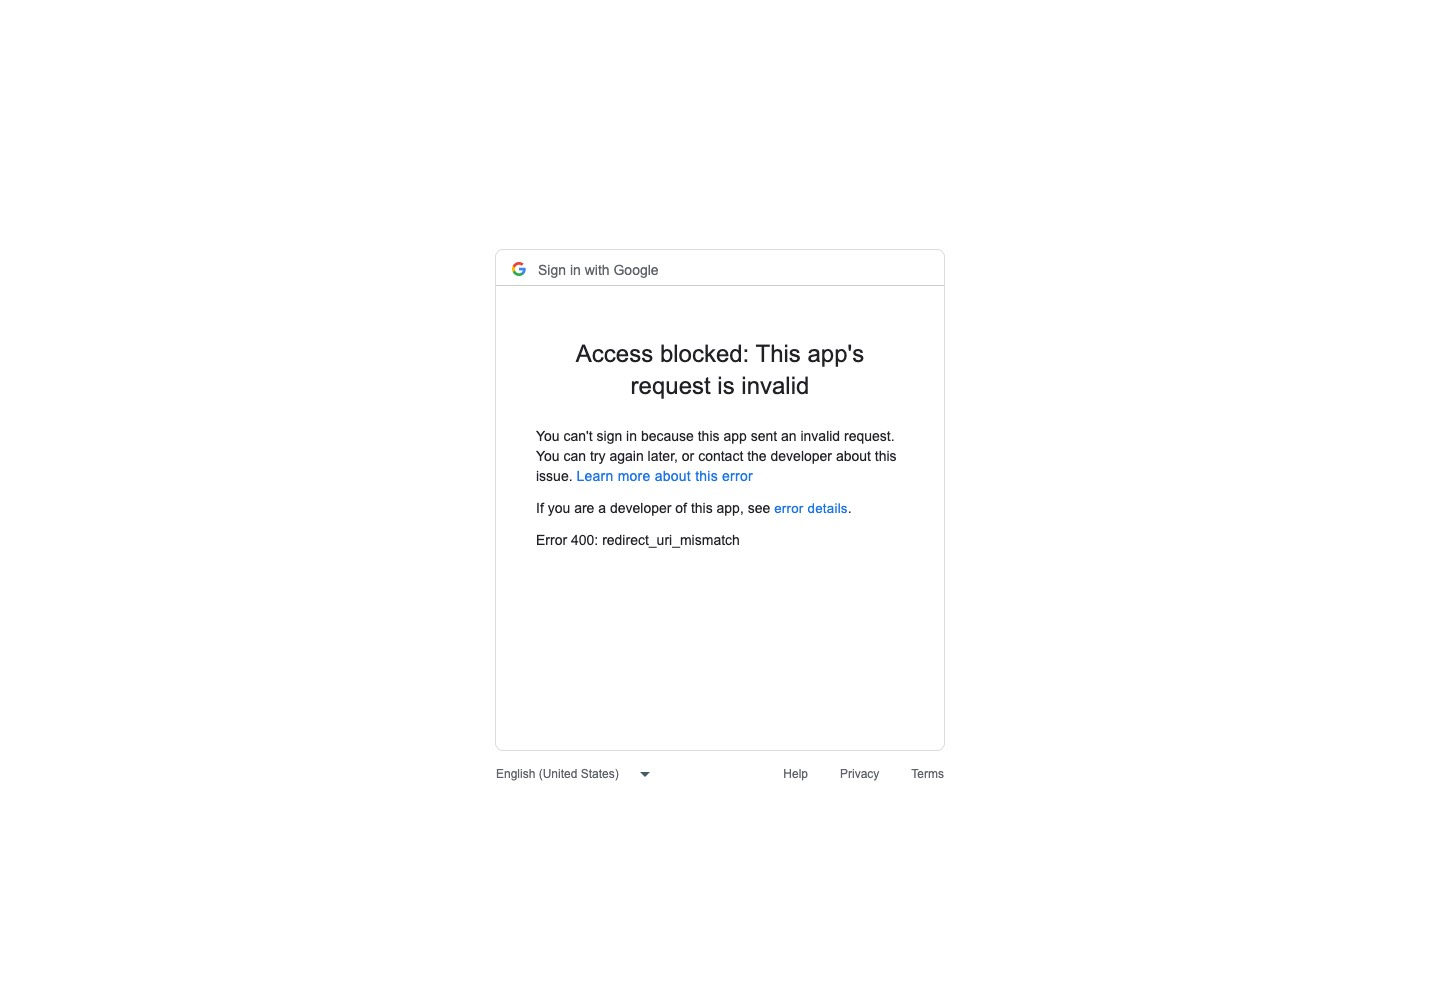
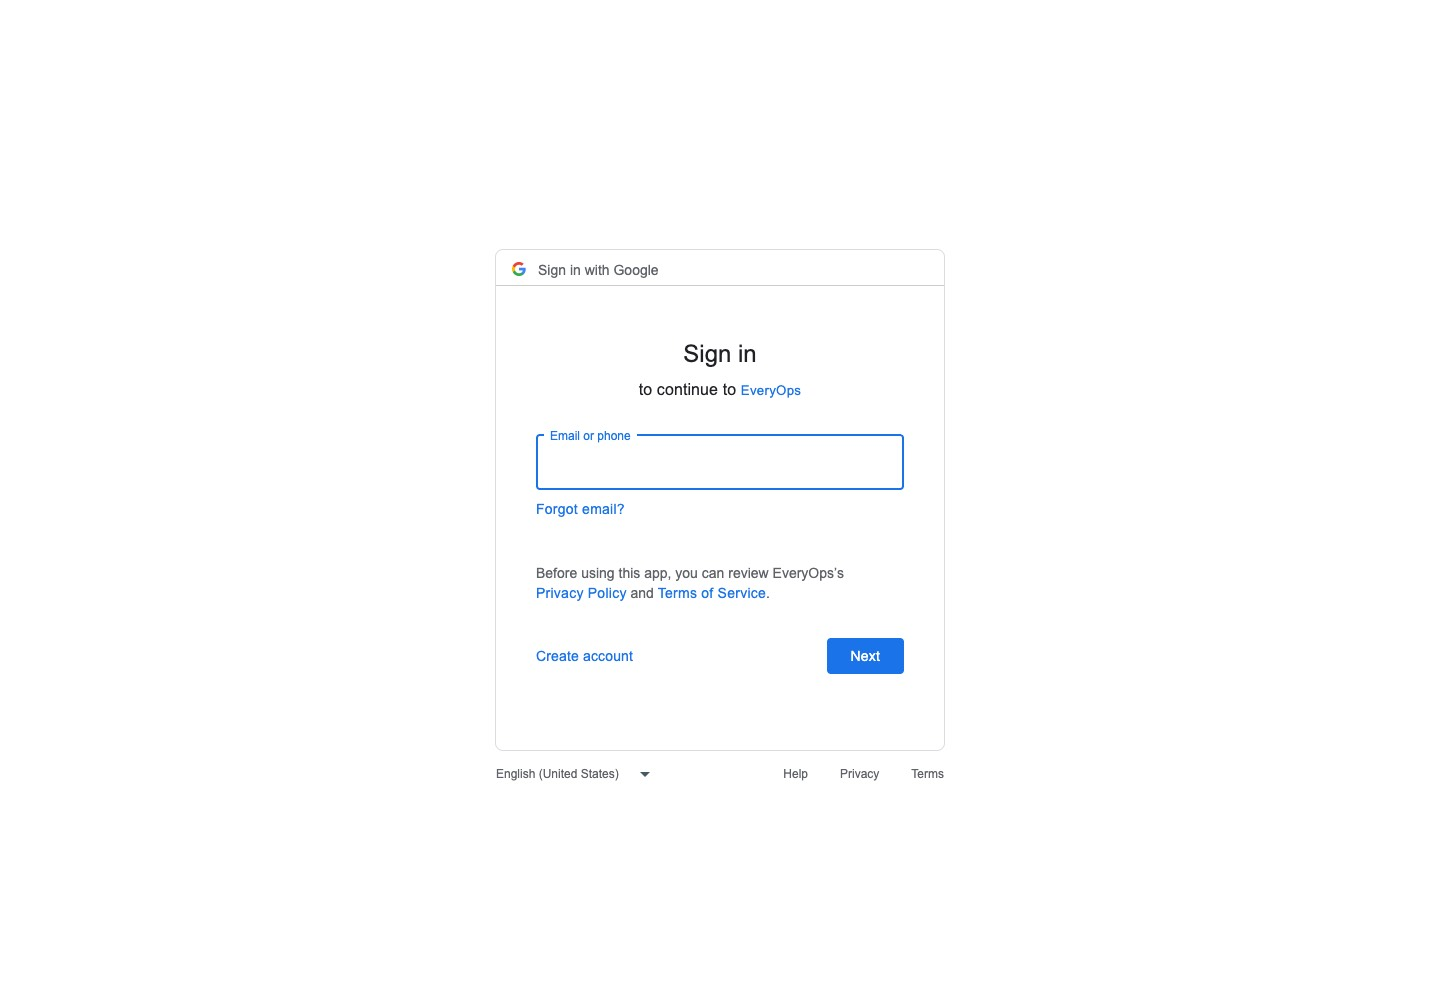
docs(connections): redirect URIs are registered; Google now shows its sign-in screen

diff --git a/docs/outside-connections.md b/docs/outside-connections.md
@@ -19,7 +19,7 @@ The vetted list lives in `src/lib/connections.ts`. Tools a server offers that ar
 ## Setup (once per Google project)
 
 1. Enable `calendar-json.googleapis.com` and `calendarmcp.googleapis.com` (done for `everyops-prod`), plus `gmail.googleapis.com` and `gmailmcp.googleapis.com` for Gmail. Google's MCP servers are in the Workspace Developer Preview.
-2. Add `https://everyops.app/api/connections/callback` and `http://localhost:3000/api/connections/callback` to the OAuth client's authorized redirect URIs.
+2. The OAuth client's authorized redirect URIs include `https://everyops.app/api/connections/callback` and `http://localhost:3000/api/connections/callback` (added for everyops-prod).
 3. Add the scopes in `PROVIDERS` to the consent screen's Data access list.
 
 ## Local checks
